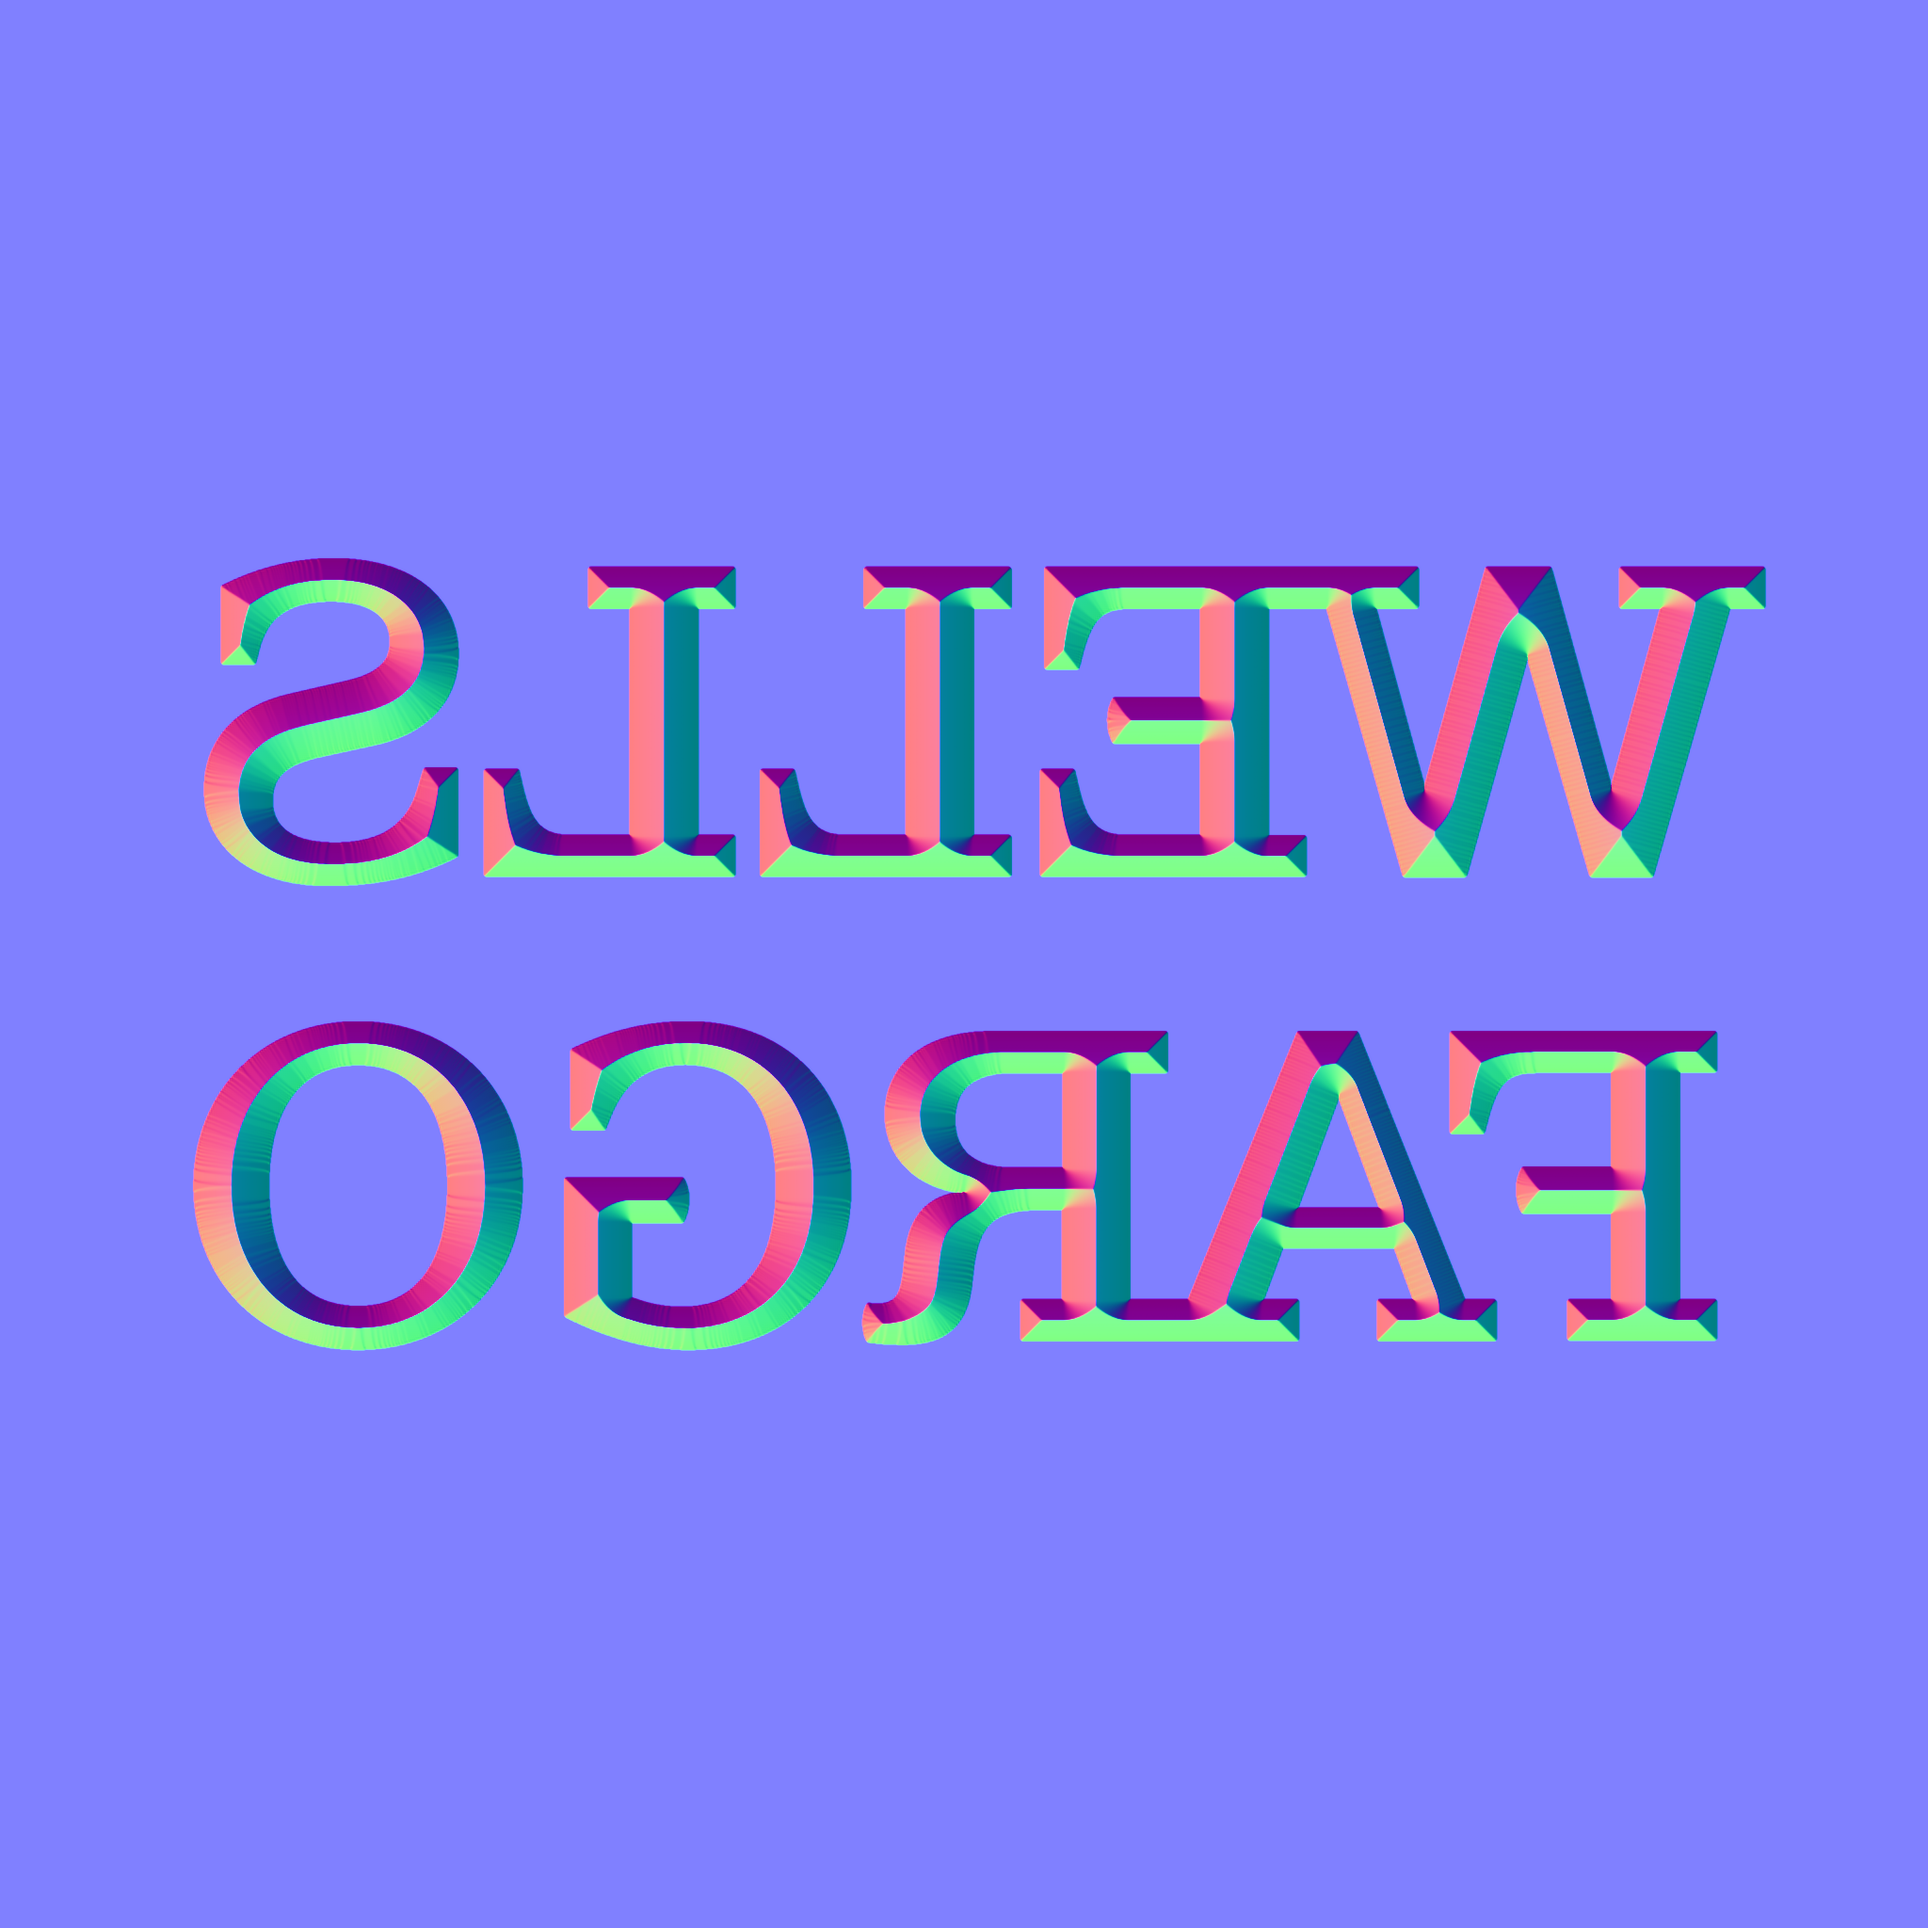
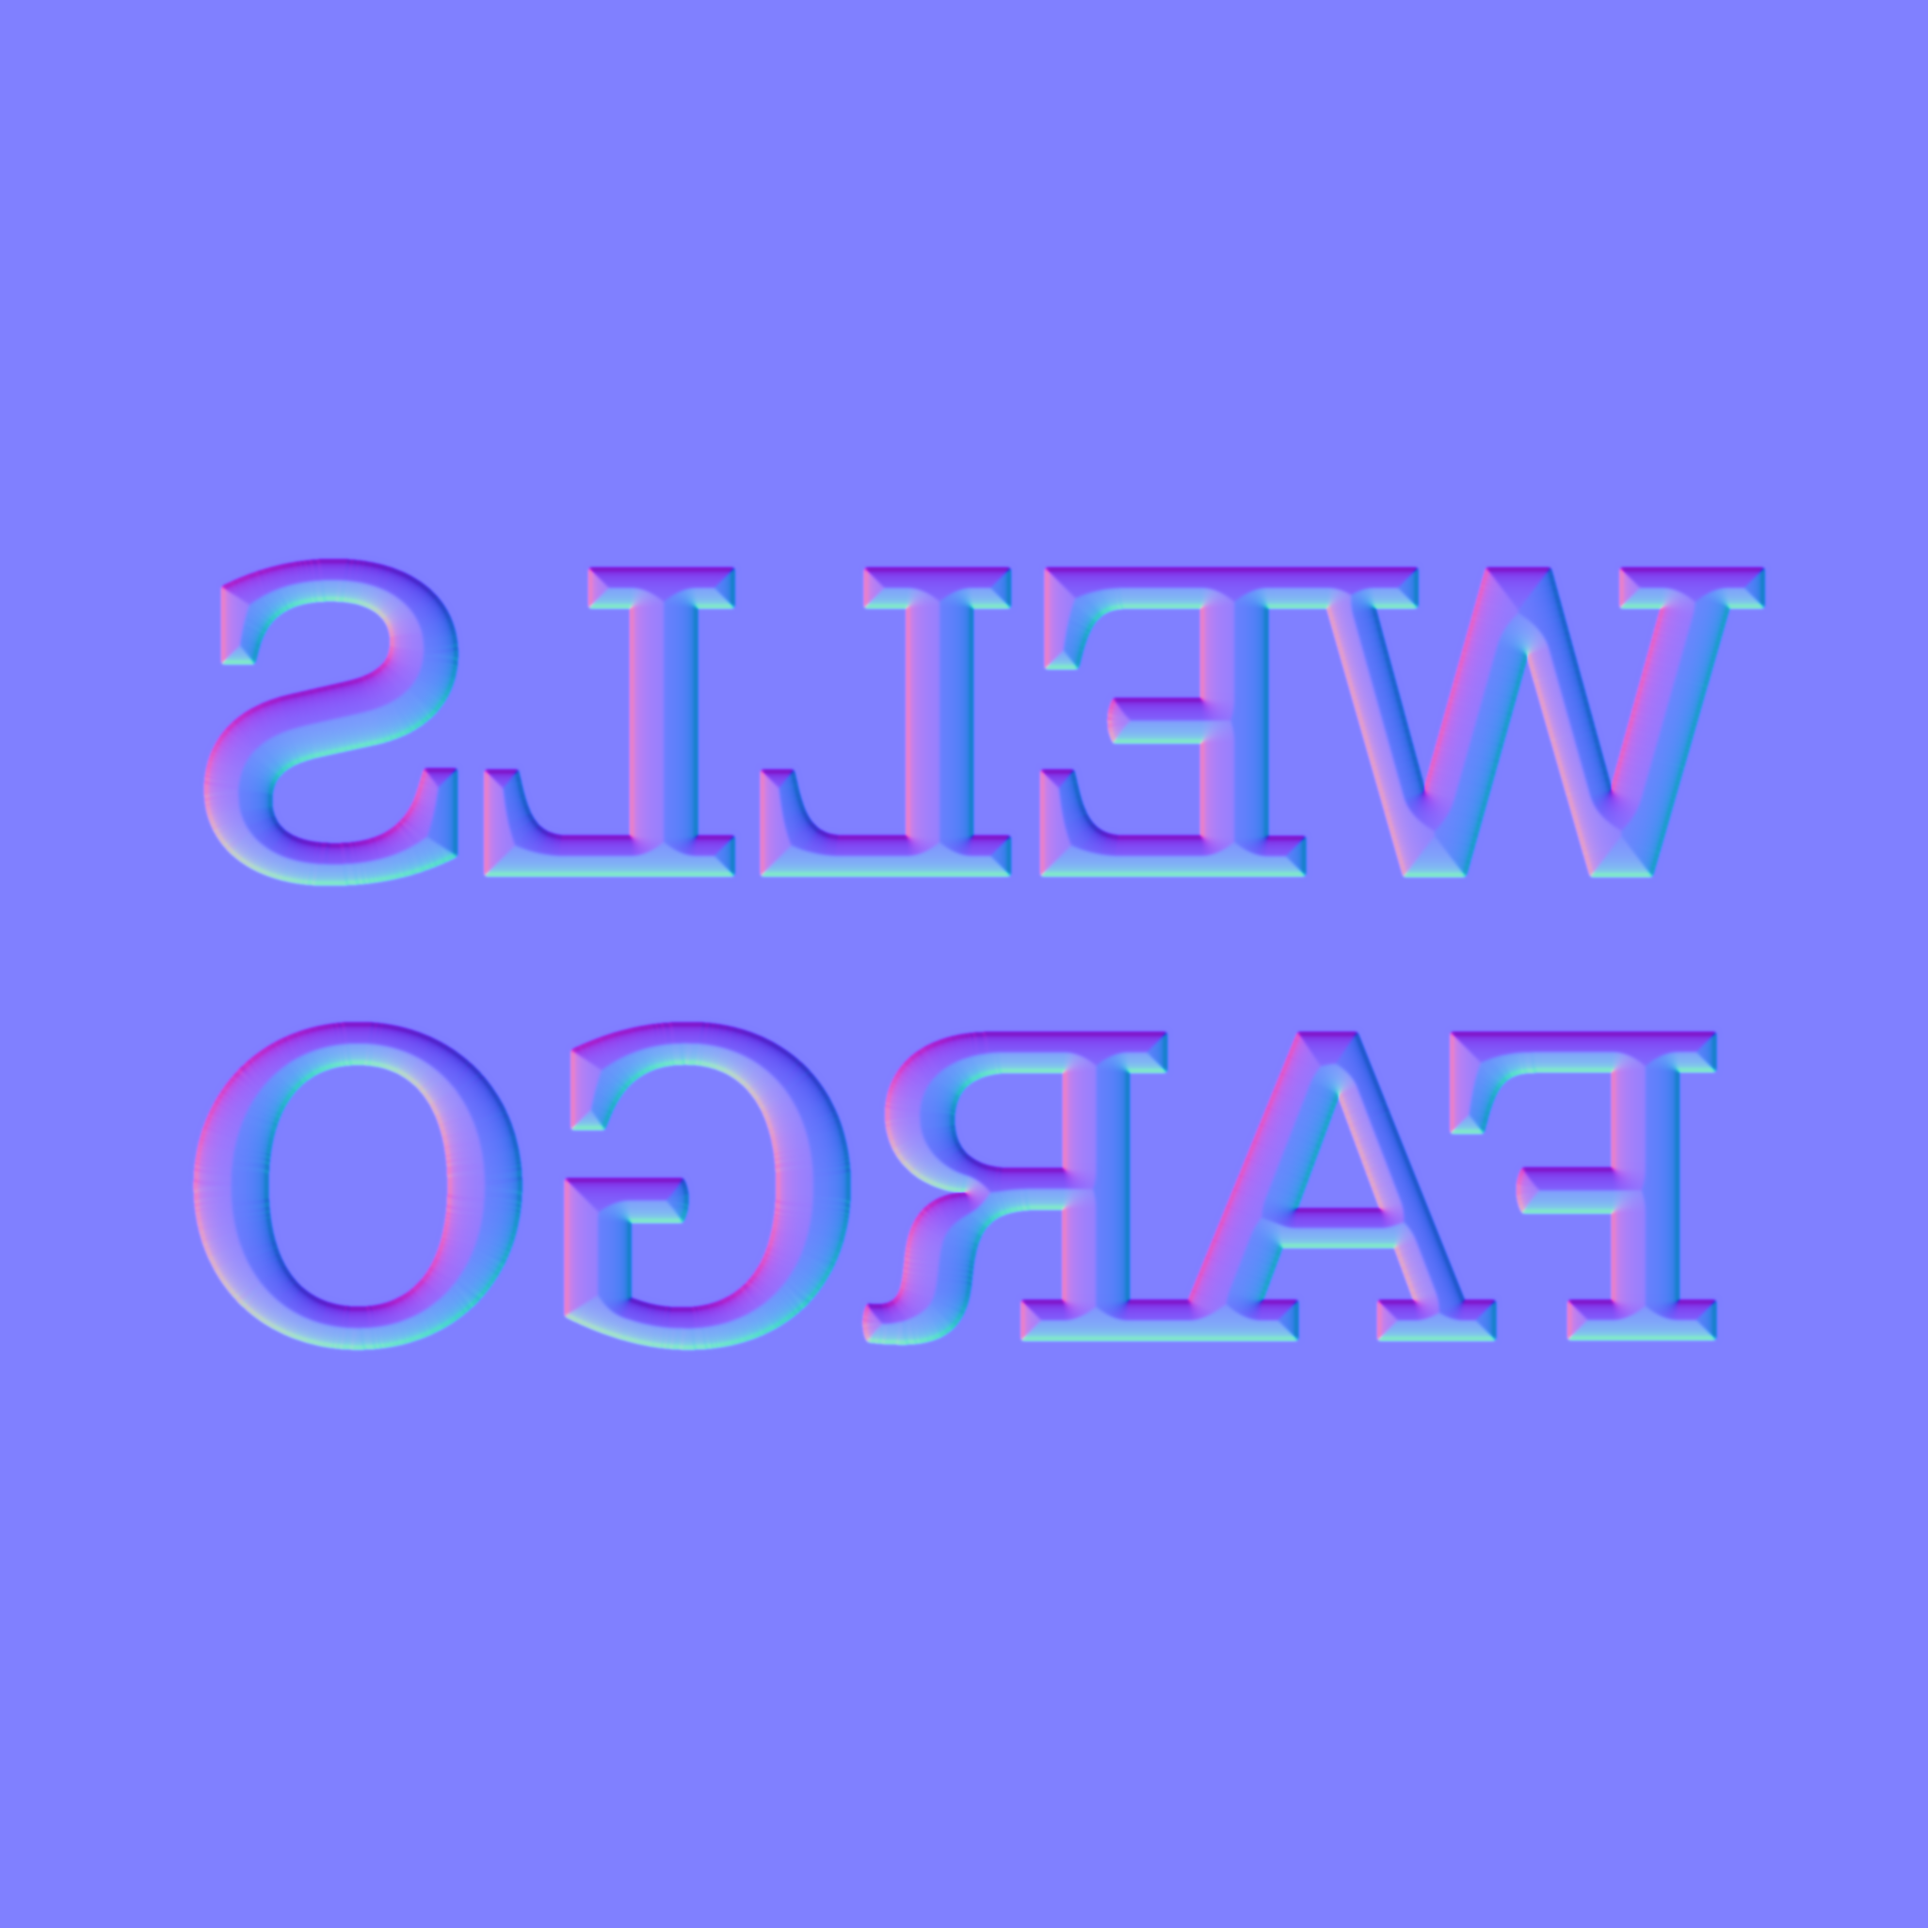
gold hero: softer carve (normal map rebaked at 0.02 depth from a blurred height, was 0.44), tilt pivots on the front face, normalMap knob

Changed region(s): [[0.0938, 0.2812, 0.9375, 0.4688], [0.0938, 0.5312, 0.9062, 0.7188]]

diff --git a/gold/3d/gold_hero.js b/gold/3d/gold_hero.js
@@ -42,7 +42,7 @@ async function init() {
     fetch(BASE + 'scene.json').then(r => r.json()), fetch(BASE + 'material.json').then(r => r.json()),
     new GLTFLoader().loadAsync(BASE + 'wf_cube.glb'),
     new THREE.TextureLoader().loadAsync(BASE + 'env_roof_1k.png'),
-    new THREE.TextureLoader().loadAsync(BASE + 'wf_normal_2k.png'),
+    new THREE.TextureLoader().loadAsync(BASE + (CFG.normalMap || 'wf_normal_2k.png')),
     new THREE.TextureLoader().loadAsync(BASE + 'wf_letters_2k.png'),
   ]);
   // warmth dial (0..1): tints the environment toward orange before it becomes the reflection map, and shifts the base gold the same way
@@ -187,6 +187,10 @@ async function init() {
   addEventListener('pointermove', e => { if (e.pointerType === 'touch') return; pointer.tx = (e.clientX / vw) * 2 - 1; pointer.ty = (e.clientY / vh) * 2 - 1; }, { passive: true });
   addEventListener('scroll', () => { scrollRot = scrollY; }, { passive: true });
   const sweep = rectLights.find(l => l.name === 'Spec_Bokeh'); const sweepBase = sweep ? sweep.matrix.clone() : null;
+  // the pointer tilt rotates the cube about the centre of its front face, not its volume centre, so the lockup stays anchored while the body swings behind it
+  const faceLocal = (() => { setAnimTime(END_T); cube.rotation.set(0, 0, 0); root.updateMatrixWorld(true); const geo = cube.geometry; if (!geo.boundingBox) geo.computeBoundingBox(); const c = geo.boundingBox.getCenter(new THREE.Vector3()), h = geo.boundingBox.getSize(new THREE.Vector3()).multiplyScalar(0.5); const camW = camera.getWorldPosition(new THREE.Vector3()); let best = null, bd = -2; for (const ax of [[1,0,0],[-1,0,0],[0,1,0],[0,-1,0],[0,0,1],[0,0,-1]]) { const n = new THREE.Vector3(...ax); const p = c.clone().add(n.clone().multiply(h)); const pw = cube.localToWorld(p.clone()); const nw = n.clone().transformDirection(cube.matrixWorld); const d = nw.dot(camW.clone().sub(pw).normalize()); if (d > bd) { bd = d; best = p; } } return best; })();
+  const _sf = new THREE.Vector3(), _rf = new THREE.Vector3();
+  const cubeHasPosTrack = samplers.some(s => s.node === cube && s.prop === 'position'); setAnimTime(END_T); const cubeBasePos = cube.position.clone();
   addEventListener('resize', () => { resize(); if (state === 'live') Object.assign(view, slotTarget()); });
 
   // ---------- frame ----------
@@ -205,6 +209,7 @@ async function init() {
     pointer.x += (pointer.tx - pointer.x) * 0.06; pointer.y += (pointer.ty - pointer.y) * 0.06;
     pivot.rotation.x += 0; // keep Blender animation; add tilt on the cube itself
     cube.rotation.set(-pointer.y * 0.088 * liveAmt, pointer.x * 0.132 * liveAmt, 0);
+    if (cubeHasPosTrack) cubeBasePos.copy(cube.position); _sf.copy(faceLocal).multiply(cube.scale); _rf.copy(_sf).applyQuaternion(cube.quaternion); cube.position.copy(cubeBasePos).add(_sf).sub(_rf); // keep the front-face centre where the animation put it
     // scroll: the environment tilts vertically and drifts sideways, and the small specular light orbits the face so highlights catch the carve edges
     const sy = scrollRot * (CFG.scrollRate || 0.0016) * liveAmt;
     scene.environmentRotation.set(ENV_BASE.x + sy * 0.9, ENV_BASE.y + sy * 0.35, 0);
